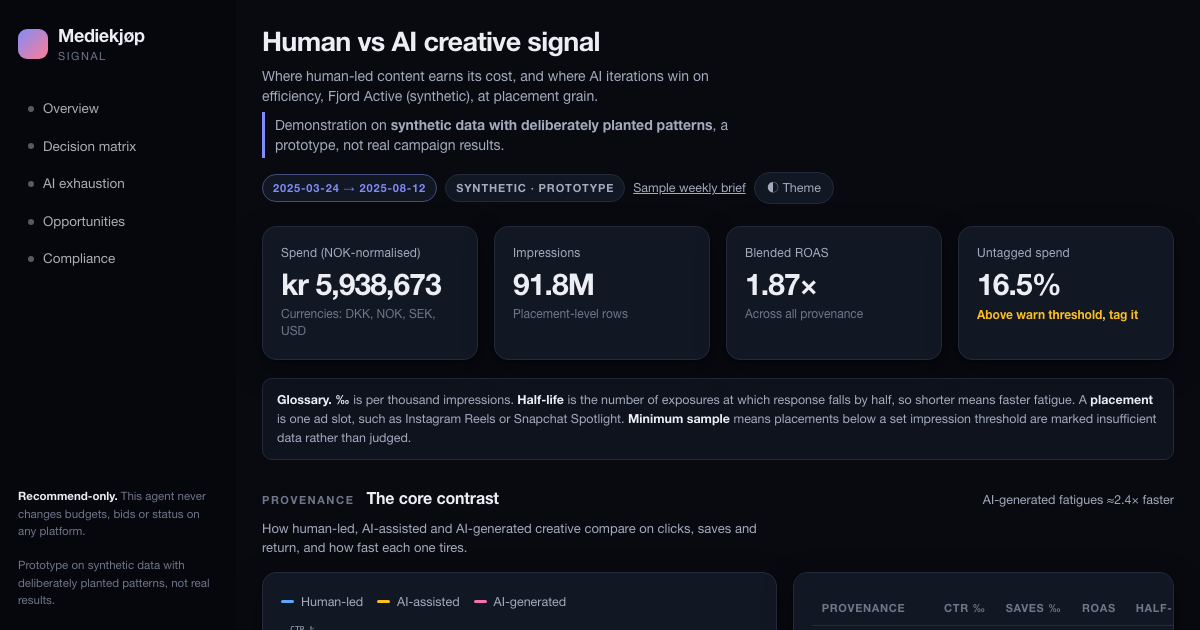
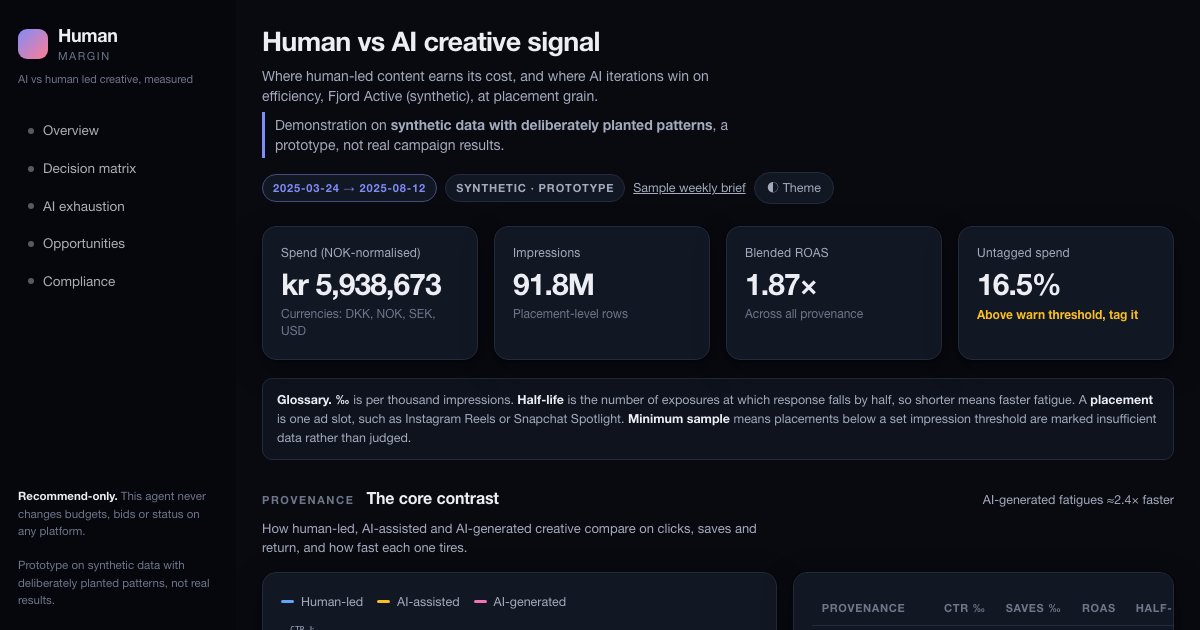
Rename to Human Margin and update identity and URLs

Changed region(s): [[0.0308, 0.0302, 0.1542, 0.4524]]

diff --git a/docs/index.html b/docs/index.html
@@ -3,23 +3,23 @@
 <head>
 <meta charset="utf-8">
 <meta name="viewport" content="width=device-width, initial-scale=1, viewport-fit=cover">
-<title>Mediekjøp Signal</title>
+<title>Human Margin</title>
 <meta name="description" content="Recommend-only analysis tool for Norwegian B2C media buyers deciding between AI-led, hybrid and human-led creative. Prototype on synthetic data.">
 <meta property="og:type" content="website">
-<meta property="og:title" content="Mediekjøp Signal">
+<meta property="og:title" content="Human Margin">
 <meta property="og:description" content="Recommend-only analysis tool for Norwegian B2C media buyers deciding between AI-led, hybrid and human-led creative. Prototype on synthetic data.">
-<meta property="og:url" content="https://jokelhar.github.io/mediekjop-signal/">
-<meta property="og:image" content="https://jokelhar.github.io/mediekjop-signal/og-image.png">
+<meta property="og:url" content="https://jokelhar.github.io/human-margin/">
+<meta property="og:image" content="https://jokelhar.github.io/human-margin/og-image.png">
 <meta name="twitter:card" content="summary_large_image">
-<meta name="twitter:title" content="Mediekjøp Signal">
+<meta name="twitter:title" content="Human Margin">
 <meta name="twitter:description" content="Recommend-only analysis tool for Norwegian B2C media buyers deciding between AI-led, hybrid and human-led creative. Prototype on synthetic data.">
-<meta name="twitter:image" content="https://jokelhar.github.io/mediekjop-signal/og-image.png">
+<meta name="twitter:image" content="https://jokelhar.github.io/human-margin/og-image.png">
 <link rel="icon" href="favicon.svg" type="image/svg+xml">
 <style>:root{color-scheme:light}body{margin:0;font:14px "Helvetica Neue",Helvetica,Arial,sans-serif}img{max-width:100%}[hidden]{display:none!important}</style>
 </head>
 <body>
 <meta name="claude:viewport-fit-sides" content="cover">
-<title>Mediekjøp Signal</title>
+<title>Human Margin</title>
 <style>
   /* Layout: fixed left identity rail + scrollable content; a light SaaS
      analytics console in a Helvetica-forward voice. */
@@ -80,6 +80,8 @@
     letter-spacing: -.02em; }
   .brand small { display: block; color: var(--ink-3); font-size: 11px; letter-spacing: .14em;
     text-transform: uppercase; margin-top: 1px; }
+  .brandblock { display: flex; flex-direction: column; gap: 7px; }
+  .brand-tag { font-size: 11px; color: var(--ink-3); line-height: 1.4; max-width: 190px; }
   .nav { display: flex; flex-direction: column; gap: 2px; }
   .nav a { color: var(--rail-ink); opacity: .72; text-decoration: none; font-size: 13.5px;
     padding: 8px 10px; border-radius: 9px; display: flex; gap: 9px; align-items: center; }
@@ -225,9 +227,12 @@
 
 <div class="app">
   <aside class="rail">
-    <div class="brand">
-      <span class="mark" aria-hidden="true"></span>
-      <span><b>Mediekjøp</b><small>Signal</small></span>
+    <div class="brandblock">
+      <div class="brand">
+        <span class="mark" aria-hidden="true"></span>
+        <span><b>Human</b><small>Margin</small></span>
+      </div>
+      <div class="brand-tag">AI vs human led creative, measured</div>
     </div>
     <nav class="nav">
       <a href="#overview"><span class="dot"></span>Overview</a>
@@ -343,7 +348,7 @@
       <span>Recommend-only · evidence over opinion</span>
       <span id="foot-note"></span>
       <span>Built by João Harrison</span>
-      <span><a href="https://github.com/JoKelHar/mediekjop-signal">GitHub</a> · <a href="https://www.linkedin.com/in/joaoharrison">LinkedIn</a></span>
+      <span><a href="https://github.com/JoKelHar/human-margin">GitHub</a> · <a href="https://www.linkedin.com/in/joaoharrison">LinkedIn</a></span>
       <span><a href="sample-brief.html">See a sample weekly brief</a></span>
     </div>
   </main>

diff --git a/docs/sample-brief.html b/docs/sample-brief.html
@@ -3,17 +3,17 @@
 <head>
 <meta charset="utf-8">
 <meta name="viewport" content="width=device-width, initial-scale=1, viewport-fit=cover">
-<title>Sample weekly brief · Mediekjøp Signal</title>
+<title>Sample weekly brief · Human Margin</title>
 <meta name="description" content="Recommend-only analysis tool for Norwegian B2C media buyers deciding between AI-led, hybrid and human-led creative. Prototype on synthetic data.">
 <meta property="og:type" content="website">
-<meta property="og:title" content="Sample weekly brief · Mediekjøp Signal">
+<meta property="og:title" content="Sample weekly brief · Human Margin">
 <meta property="og:description" content="Recommend-only analysis tool for Norwegian B2C media buyers deciding between AI-led, hybrid and human-led creative. Prototype on synthetic data.">
-<meta property="og:url" content="https://jokelhar.github.io/mediekjop-signal/sample-brief.html">
-<meta property="og:image" content="https://jokelhar.github.io/mediekjop-signal/og-image.png">
+<meta property="og:url" content="https://jokelhar.github.io/human-margin/sample-brief.html">
+<meta property="og:image" content="https://jokelhar.github.io/human-margin/og-image.png">
 <meta name="twitter:card" content="summary_large_image">
-<meta name="twitter:title" content="Sample weekly brief · Mediekjøp Signal">
+<meta name="twitter:title" content="Sample weekly brief · Human Margin">
 <meta name="twitter:description" content="Recommend-only analysis tool for Norwegian B2C media buyers deciding between AI-led, hybrid and human-led creative. Prototype on synthetic data.">
-<meta name="twitter:image" content="https://jokelhar.github.io/mediekjop-signal/og-image.png">
+<meta name="twitter:image" content="https://jokelhar.github.io/human-margin/og-image.png">
 <link rel="icon" href="favicon.svg" type="image/svg+xml">
 <style>
 :root{--bg:#eef0f4;--surface:#ffffff;--surface-2:#f7f8fb;--ink:#0b1020;--ink-2:#565d70;
@@ -87,7 +87,7 @@ tbody tr:last-child td{border-bottom:none}
 <h2>Compliance to review</h2>
 <ul><li>Kroppspress-merking: <b>12</b> AI creatives showing people</li><li>Markedsføringsloven: <b>21</b> boosted organic posts to label</li><li>Influencer labelling: <b>3</b> creator-led creatives</li></ul>
 </article>
-<div class="page-foot"><span>Recommend-only · evidence over opinion</span><span>Built by João Harrison</span><span><a href="https://github.com/JoKelHar/mediekjop-signal">GitHub</a> · <a href="https://www.linkedin.com/in/joaoharrison">LinkedIn</a></span><span><a href="index.html">Back to the dashboard</a></span></div>
+<div class="page-foot"><span>Recommend-only · evidence over opinion</span><span>Built by João Harrison</span><span><a href="https://github.com/JoKelHar/human-margin">GitHub</a> · <a href="https://www.linkedin.com/in/joaoharrison">LinkedIn</a></span><span><a href="index.html">Back to the dashboard</a></span></div>
 </main>
 <script>try{var t=localStorage.getItem("mk-theme");if(t)document.documentElement.setAttribute("data-theme",t);}catch(e){}</script>
 </body>

diff --git a/web/dashboard.html b/web/dashboard.html
@@ -1,5 +1,5 @@
 <meta name="claude:viewport-fit-sides" content="cover">
-<title>Mediekjøp Signal</title>
+<title>Human Margin</title>
 <style>
   /* Layout: fixed left identity rail + scrollable content; a light SaaS
      analytics console in a Helvetica-forward voice. */
@@ -60,6 +60,8 @@
     letter-spacing: -.02em; }
   .brand small { display: block; color: var(--ink-3); font-size: 11px; letter-spacing: .14em;
     text-transform: uppercase; margin-top: 1px; }
+  .brandblock { display: flex; flex-direction: column; gap: 7px; }
+  .brand-tag { font-size: 11px; color: var(--ink-3); line-height: 1.4; max-width: 190px; }
   .nav { display: flex; flex-direction: column; gap: 2px; }
   .nav a { color: var(--rail-ink); opacity: .72; text-decoration: none; font-size: 13.5px;
     padding: 8px 10px; border-radius: 9px; display: flex; gap: 9px; align-items: center; }
@@ -205,9 +207,12 @@
 
 <div class="app">
   <aside class="rail">
-    <div class="brand">
-      <span class="mark" aria-hidden="true"></span>
-      <span><b>Mediekjøp</b><small>Signal</small></span>
+    <div class="brandblock">
+      <div class="brand">
+        <span class="mark" aria-hidden="true"></span>
+        <span><b>Human</b><small>Margin</small></span>
+      </div>
+      <div class="brand-tag">AI vs human led creative, measured</div>
     </div>
     <nav class="nav">
       <a href="#overview"><span class="dot"></span>Overview</a>
@@ -323,7 +328,7 @@
       <span>Recommend-only · evidence over opinion</span>
       <span id="foot-note"></span>
       <span>Built by João Harrison</span>
-      <span><a href="https://github.com/JoKelHar/mediekjop-signal">GitHub</a> · <a href="https://www.linkedin.com/in/joaoharrison">LinkedIn</a></span>
+      <span><a href="https://github.com/JoKelHar/human-margin">GitHub</a> · <a href="https://www.linkedin.com/in/joaoharrison">LinkedIn</a></span>
       <span><a href="sample-brief.html">See a sample weekly brief</a></span>
     </div>
   </main>

diff --git a/scripts/build_dashboard.py b/scripts/build_dashboard.py
@@ -26,7 +26,7 @@ STANDALONE = ROOT / "docs" / "index.html"
 SAMPLE_HTML = ROOT / "docs" / "sample-brief.html"
 ARTIFACT = ROOT / "out" / "dashboard_page.html"
 
-SITE = "https://jokelhar.github.io/mediekjop-signal/"
+SITE = "https://jokelhar.github.io/human-margin/"
 OG_DESC = ("Recommend-only analysis tool for Norwegian B2C media buyers deciding "
            "between AI-led, hybrid and human-led creative. Prototype on synthetic data.")
 
@@ -49,7 +49,7 @@ SYNTHNOTE = ('<p class="synthnote">Demonstration on <b>synthetic data with '
 
 ATTRIBUTION = (
     '<span>Built by João Harrison</span>'
-    '<span><a href="https://github.com/JoKelHar/mediekjop-signal">GitHub</a> · '
+    '<span><a href="https://github.com/JoKelHar/human-margin">GitHub</a> · '
     '<a href="https://www.linkedin.com/in/joaoharrison">LinkedIn</a></span>'
 )
 
@@ -186,7 +186,7 @@ def build_dashboard(template: str) -> None:
     data = json.loads(INSIGHTS.read_text(encoding="utf-8"))
     payload = json.dumps(data, ensure_ascii=False).replace("</script", "<\\/script")
     rendered = template.replace("__INSIGHTS_JSON__", payload)
-    head = page_head("Mediekjøp Signal", SITE, extra_style=INDEX_STYLE)
+    head = page_head("Human Margin", SITE, extra_style=INDEX_STYLE)
     STANDALONE.parent.mkdir(parents=True, exist_ok=True)
     STANDALONE.write_text(head + rendered + "\n</body>\n</html>\n", encoding="utf-8")
     ARTIFACT.parent.mkdir(parents=True, exist_ok=True)
@@ -197,7 +197,7 @@ def build_dashboard(template: str) -> None:
 
 def build_sample_brief() -> None:
     body = render_markdown(SAMPLE_MD.read_text(encoding="utf-8"))
-    head = page_head("Sample weekly brief · Mediekjøp Signal", SITE + "sample-brief.html",
+    head = page_head("Sample weekly brief · Human Margin", SITE + "sample-brief.html",
                      extra_style=BRIEF_CSS)
     foot = (
         '<div class="page-foot">'

diff --git a/README.md b/README.md
@@ -1,13 +1,15 @@
-# Mediekjøp Signal
+# Human Margin
+
+**AI vs human led creative, measured**
 
 A recommend-only analysis tool for Norwegian B2C media buyers, built for
 marketers and business owners choosing between AI-led, hybrid and human-led
 creative. Working today: data ingestion, creative tagging and a prototype
 dashboard. In development: the AI-exhaustion engine and the creative-approach planner.
 
-**Live demo** → https://jokelhar.github.io/mediekjop-signal/ (runs on synthetic data)
+**Live demo** → https://jokelhar.github.io/human-margin/ (runs on synthetic data)
 
-[![Mediekjøp Signal dashboard on synthetic data: English interface with KPI tiles, a glossary, and a provenance section showing a click-through-rate decay chart and a comparison table for human-led, AI-assisted and AI-generated creative.](docs/screenshot.png)](https://jokelhar.github.io/mediekjop-signal/)
+[![Human Margin dashboard on synthetic data: English interface with KPI tiles, a glossary, and a provenance section showing a click-through-rate decay chart and a comparison table for human-led, AI-assisted and AI-generated creative.](docs/screenshot.png)](https://jokelhar.github.io/human-margin/)
 
 It keeps every platform export at the level of the individual placement, never
 rolled up, and is being built to answer two questions with evidence rather than
@@ -23,7 +25,7 @@ in development; see the status table below.
 
 ## Demo
 
-> **Live demo dashboard** → https://jokelhar.github.io/mediekjop-signal/
+> **Live demo dashboard** → https://jokelhar.github.io/human-margin/
 > A prototype console rendering the human-vs-AI decision matrix
 > with exhaustion and opportunity alerts, on **synthetic** Norwegian data in
 > which the patterns are deliberately planted.
@@ -109,7 +111,7 @@ figures are cited.
 
 **Name and trademark.** The Apache-2.0 licence covers the code, not the
 project's name or logo. You're very welcome to fork and build on this. Please
-just give your fork its own name rather than "Mediekjøp Signal", so nobody
+just give your fork its own name rather than "Human Margin", so nobody
 confuses the two. (See `NOTICE`.)
 
 **How to cite.** Citation metadata is in [`CITATION.cff`](CITATION.cff); GitHub
@@ -296,5 +298,6 @@ reports: [`SECURITY.md`](SECURITY.md).
 ## Tech
 
 Python 3.11+ · pandas · DuckDB · (statsmodels/PyMC from Phase 4) · pytest · uv.
+The Python package is named `mediekjop` (Norwegian for media buying).
 Config is one file: [`config/config.yaml`](config/config.yaml). Credentials come
 only from environment variables, never logged, never committed.

diff --git a/CHANGELOG.md b/CHANGELOG.md
@@ -49,5 +49,5 @@ First tagged release. Covers the data foundation of the agent on synthetic data.
   `SECURITY.md`, `DATA_SOURCES.md`, `THIRD_PARTY_LICENSES.md`, GitHub issue and
   pull-request templates, and SPDX headers across the source tree.
 
-[Unreleased]: https://github.com/JoKelHar/mediekjop-signal/compare/v0.1.0...HEAD
-[0.1.0]: https://github.com/JoKelHar/mediekjop-signal/releases/tag/v0.1.0
+[Unreleased]: https://github.com/JoKelHar/human-margin/compare/v0.1.0...HEAD
+[0.1.0]: https://github.com/JoKelHar/human-margin/releases/tag/v0.1.0

diff --git a/THIRD_PARTY_LICENSES.md b/THIRD_PARTY_LICENSES.md
@@ -4,7 +4,7 @@ Copyright 2026 João Harrison
 -->
 # Third-party licences
 
-Mediekjøp Signal is licensed under Apache-2.0 (code) and CC BY 4.0 (benchmark
+Human Margin is licensed under Apache-2.0 (code) and CC BY 4.0 (benchmark
 library and docs). It depends on the third-party packages below. **All runtime
 dependencies are permissive (MIT / BSD-3-Clause) and compatible with
 Apache-2.0** — there are no copyleft (GPL / LGPL / AGPL) dependencies.

diff --git a/CONTRIBUTING.md b/CONTRIBUTING.md
@@ -2,7 +2,7 @@
 SPDX-License-Identifier: CC-BY-4.0
 Copyright 2026 João Harrison
 -->
-# Contributing to Mediekjøp Signal
+# Contributing to Human Margin
 
 Thank you for considering a contribution. This project is useful in direct
 proportion to how good its benchmarks are, so **benchmark figures with solid

diff --git a/SECURITY.md b/SECURITY.md
@@ -4,7 +4,7 @@ Copyright 2026 João Harrison
 -->
 # Security Policy
 
-Thank you for helping keep Mediekjøp Signal and its users safe.
+Thank you for helping keep Human Margin and its users safe.
 
 ## Supported versions
 
